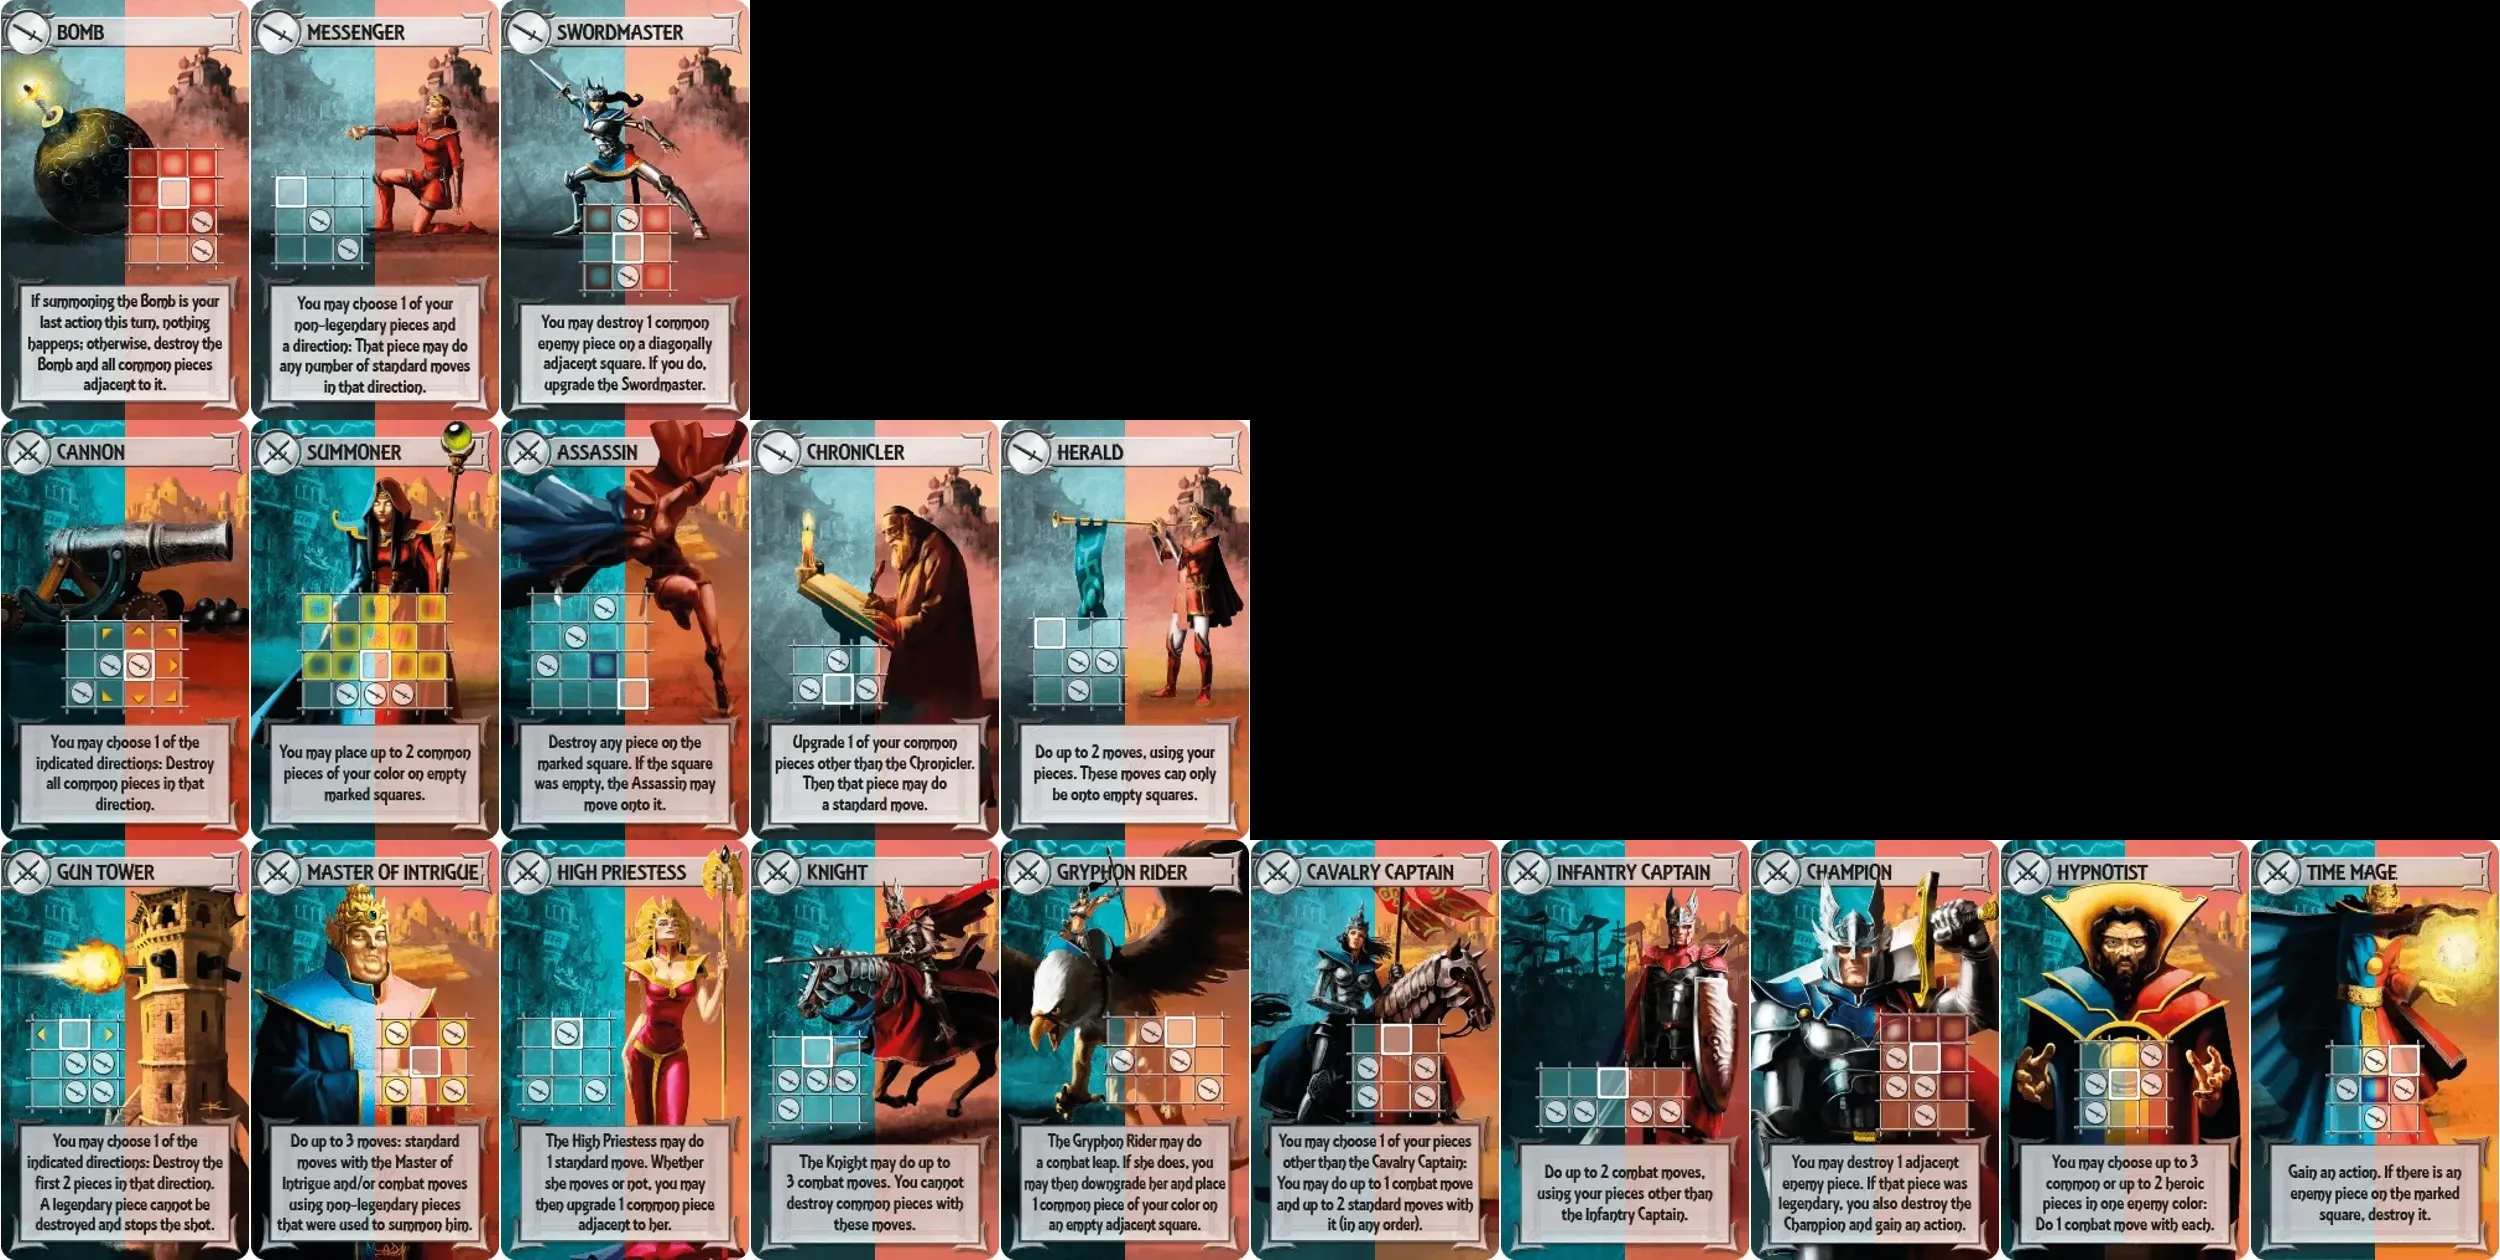
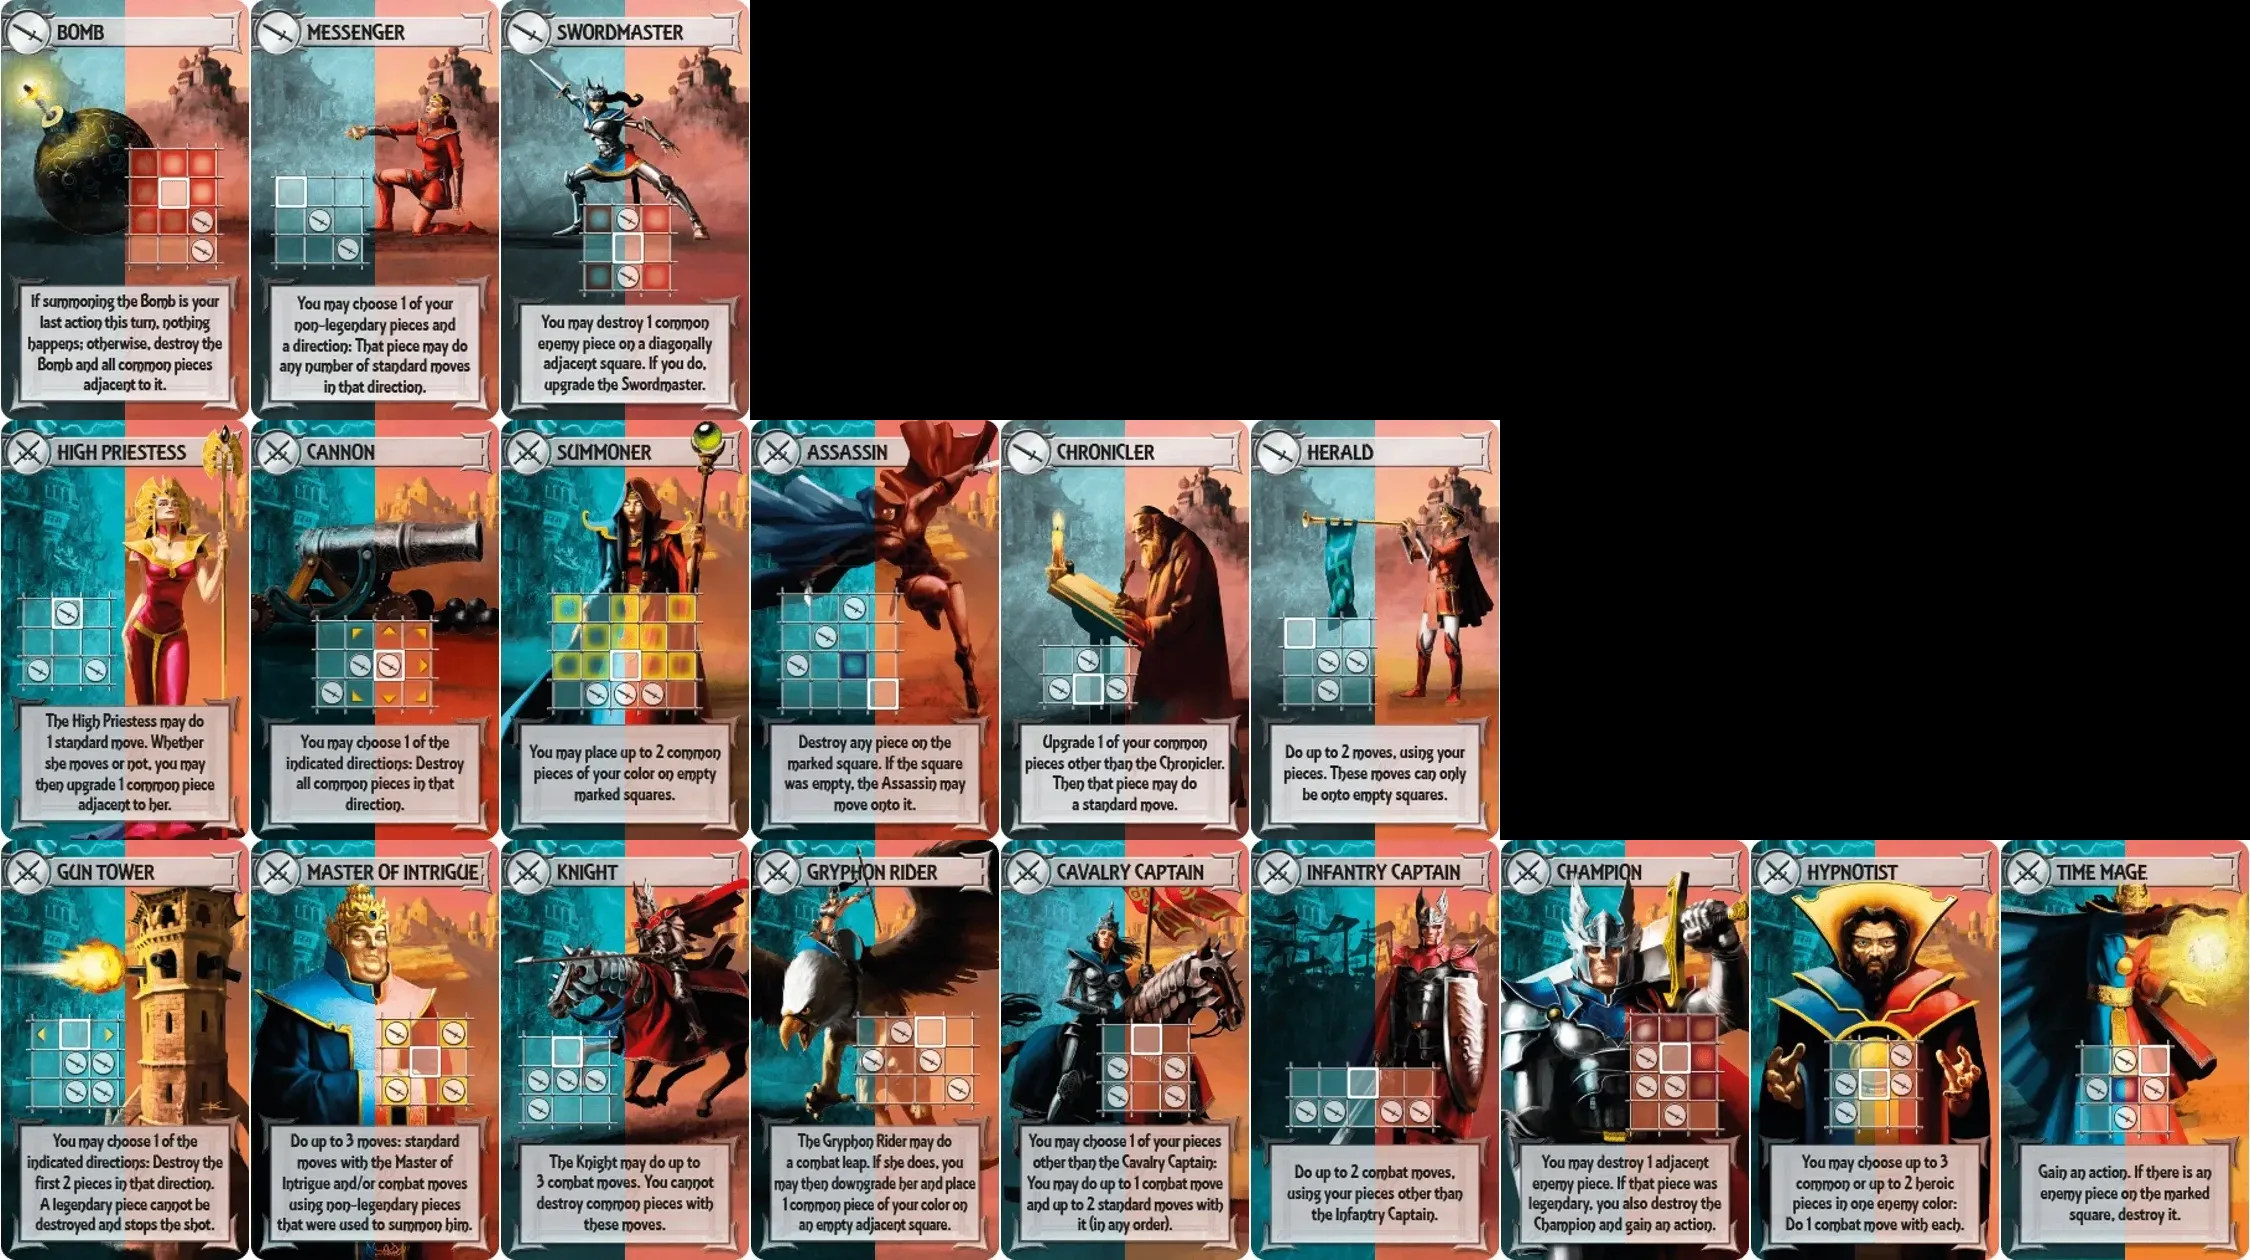
fix high pristess

diff --git a/imageManager.py b/imageManager.py
@@ -14,6 +14,8 @@ logger = logging.getLogger()
 
 
 class ImageManager:
+    ranked_pictures = {}
+
     @staticmethod
     def concat_images_h(im1, im2):  # TODO test
         dst = Image.new('RGB', (im1.width + im2.width, max(im1.height, im2.height)))
@@ -110,6 +112,7 @@ class ImageManager:
                       for cost in sorted(cost_to_cards.keys())]
         ranked_image = reduce(ImageManager.concat_images_v, image_rows)
         ranked_image.save(f'{constants.ranked_pictures_path}/{card_type}{ranked_image_infix}_ranked.webp')
+        ImageManager.ranked_pictures[card_type + ranked_image_infix] = ranked_image
 
     @staticmethod
     def create_legendary_ranked_pictures():
@@ -144,6 +147,14 @@ class ImageManager:
                       #image_altering_provider=lambda image: ImageManager.grey_out(image, how='bottom_half'))
 
     @staticmethod
-    def create_ranked_pictures():
+    def create_ranked_pictures(create_combined=False):
         for card_type in constants.factions_imperial_combined:
             ImageManager.create_ranked_picture_for_card_type(card_type)
+
+        if create_combined:
+            # crate combined ranked picture
+            ranked_images_list = [ImageManager.ranked_pictures[card_type]
+                                  for card_type in constants.factions_imperial_combined
+                                  if card_type in ImageManager.ranked_pictures]
+            combined_ranked_image = reduce(ImageManager.concat_images_v, ranked_images_list)
+            combined_ranked_image.save(f'{constants.ranked_pictures_path}/ranked_combined.webp')

diff --git a/square_quality_analysis.py b/square_quality_analysis.py
@@ -195,10 +195,11 @@ class TashKalarBoard:
             ("Side Chain", lambda sq: task_points if sq.is_corner() else task_points / 2.0 * sq.count_border_neighbors()),
         ]
         available_tasks = [
-            "Center Cross",
-            "Side Chain"
+            "Rainbow Dominance",
+            "Green Summoning",
+            "Corner Chain"
         ]
-        future_task = "Heroic Destruction"
+        future_task = "Heroic Devastation"
 
         # tasks = [
         #     ("Red Legends", lambda sq: task_points if sq.is_red() else 0),

diff --git a/metadata.py b/metadata.py
@@ -100,7 +100,7 @@ all_manual_metadata_ordered = {
         {'name': 'Cavalry Captain', 'common_cost': 4},
         {'name': 'Gryphon Rider', 'common_cost': 4},
         {'name': 'Knight', 'common_cost': 4},
-        {'name': 'High Priestess', 'common_cost': 4},
+        {'name': 'High Priestess', 'common_cost': 3},
         {'name': 'Master of Intrigue', 'common_cost': 4},
         {'name': 'Gun Tower', 'common_cost': 4},
     ],

diff --git a/main2.py b/main2.py
@@ -16,5 +16,5 @@ def print_averages():
 
 
 if __name__ == '__main__':
-    ImageManager.create_flare_ranked_pictures()
+    ImageManager.create_ranked_pictures(True)
 
